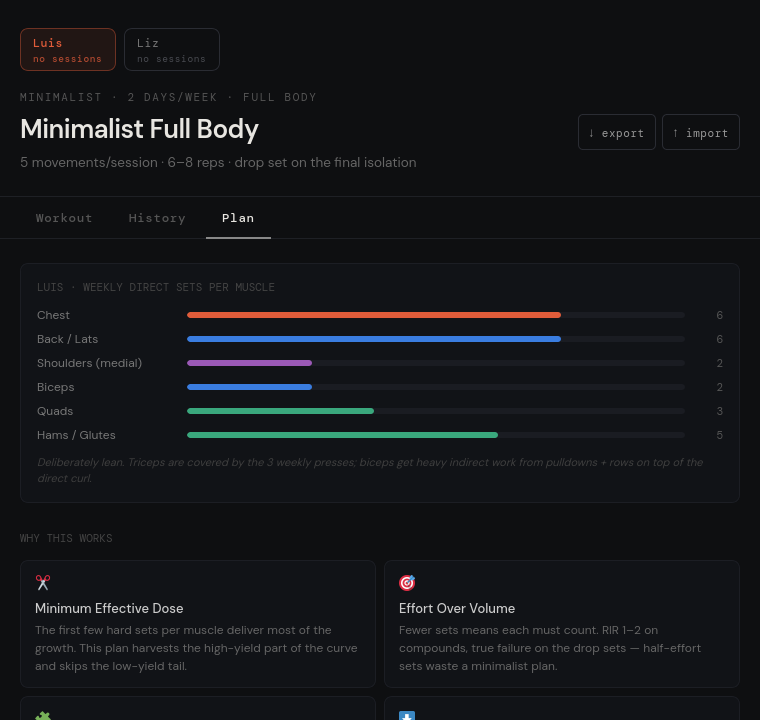
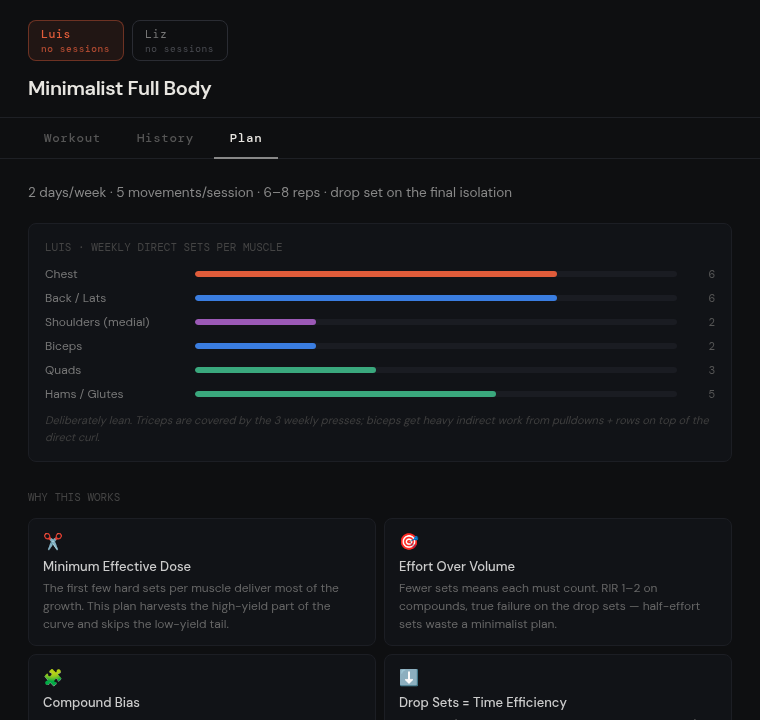
Tighten workout UI for use between sets
- Compact header (profiles + one-line title); tagline moves to Plan
- Export/import/clear sheet move to History → Backup & data, away from logging
- Day tabs read "Day A"/"Day B" on one line; no horizontal overflow at 360px
- Exercise is crossed out only when every working set has reps; partial shows 1/3
- S2+ weight shows the previous set's weight and fills it on tap
- Raise contrast of muted labels on the workout card; keep sets×reps on one line
- Refresh README screenshots and doc references

diff --git a/index.html b/index.html
@@ -335,6 +335,9 @@ function Routine() {
   function hasAnyLog(dayId, exIdx) {
     return Object.keys(logs).some((k) => k.startsWith(`${dayId}-${exIdx}-`) && (logs[k]?.weight || logs[k]?.reps));
   }
+  function setsDone(dayId, exIdx, ex) {
+    return Array.from({ length: ex.sets }, (_, s) => getLog(dayId, exIdx, s)).filter((l) => l.reps).length;
+  }
   function clearLogs() { localStorage.removeItem(logsKey(personId)); setLogs({}); }
   function clearDay(dayId) {
     setLogs((prev) => {
@@ -542,7 +545,7 @@ function Routine() {
   return (
     <div style={{ fontFamily: "'DM Sans', sans-serif", background: "#0e0f11", minHeight: "100vh", color: "#e8e6e1" }}>
       {/* Header */}
-      <div style={{ borderBottom: "1px solid #1e2025", padding: "calc(28px + env(safe-area-inset-top)) 28px 24px" }}>
+      <div style={{ borderBottom: "1px solid #1e2025", padding: "calc(20px + env(safe-area-inset-top)) 28px 16px" }}>
         <div style={{ maxWidth: 720, margin: "0 auto" }}>
           <div style={{ display: "flex", gap: 8, marginBottom: 14 }}>
             {people.map((p) => {
@@ -567,26 +570,7 @@ function Routine() {
               );
             })}
           </div>
-          <span style={{ fontFamily: "'DM Mono'", fontSize: 11, color: "#555", letterSpacing: "0.15em", textTransform: "uppercase" }}>
-            Minimalist · 2 days/week · Full body
-          </span>
-          <div style={{ display: "flex", alignItems: "flex-start", justifyContent: "space-between", marginTop: 6, gap: 12 }}>
-            <div>
-              <h1 style={{ margin: 0, fontSize: 26, fontWeight: 600, letterSpacing: "-0.02em" }}>Minimalist Full Body</h1>
-              <p style={{ margin: "6px 0 0", color: "#666", fontSize: 13.5, lineHeight: 1.5 }}>
-                5 movements/session · 6–8 reps · drop set on the final isolation
-              </p>
-            </div>
-            <div style={{ display: "flex", flexDirection: "column", gap: 6, alignItems: "flex-end", marginTop: 2 }}>
-              <div style={{ display: "flex", gap: 6 }}>
-                <button onClick={exportData} style={btn()}>↓ export</button>
-                <button onClick={() => setImportOpen(true)} style={btn()}>↑ import</button>
-              </div>
-              {hasData(logs) && (
-                <button onClick={() => { if (window.confirm(`Clear ${person.name}'s current sheet? Logged sets that haven't been saved to history will be lost.`)) clearLogs(); }} style={btn("#2a1a1a", "#6b3030")}>clear sheet</button>
-              )}
-            </div>
-          </div>
+          <h1 style={{ margin: 0, fontSize: 20, fontWeight: 600, letterSpacing: "-0.02em" }}>Minimalist Full Body</h1>
         </div>
       </div>
 
@@ -635,11 +619,12 @@ function Routine() {
           <div style={{ maxWidth: 720, margin: "0 auto", display: "flex", justifyContent: "space-between" }}>
             <div style={{ display: "flex" }}>
               {person.days.map((d) => {
-                const started = d.exercises.filter((_, i) => hasAnyLog(d.id, i)).length;
+                const started = d.exercises.some((_, i) => hasAnyLog(d.id, i));
+                const done = d.exercises.filter((ex, i) => setsDone(d.id, i, ex) === ex.sets).length;
                 return (
-              <button key={d.id} onClick={() => { setActiveDay(d.id); setExpanded(null); setCueOpen(null); }} style={{ background: "none", border: "none", borderBottom: activeDay === d.id ? `2px solid ${d.color}` : "2px solid transparent", color: activeDay === d.id ? "#e8e6e1" : "#555", cursor: "pointer", padding: "14px 20px 13px", fontSize: 13.5, fontFamily: "'DM Sans'", fontWeight: activeDay === d.id ? 600 : 400, marginBottom: -1 }}>
-                    <span style={{ color: activeDay === d.id ? d.color : "#555", fontFamily: "'DM Mono'", fontSize: 11, marginRight: 6 }}>{d.id}</span>{d.focus}
-                    {started > 0 && <span style={{ fontFamily: "'DM Mono'", fontSize: 10.5, color: started === d.exercises.length ? "#3aa87d" : d.color, marginLeft: 6 }}>{started}/{d.exercises.length}</span>}
+              <button key={d.id} onClick={() => { setActiveDay(d.id); setExpanded(null); setCueOpen(null); }} style={{ background: "none", border: "none", borderBottom: activeDay === d.id ? `2px solid ${d.color}` : "2px solid transparent", color: activeDay === d.id ? "#e8e6e1" : "#777", cursor: "pointer", padding: "14px 14px 13px", fontSize: 13.5, fontFamily: "'DM Sans'", fontWeight: activeDay === d.id ? 600 : 400, marginBottom: -1, whiteSpace: "nowrap" }}>
+                    Day <span style={{ color: activeDay === d.id ? d.color : "#777" }}>{d.id}</span>
+                    {started && <span style={{ fontFamily: "'DM Mono'", fontSize: 10.5, color: done === d.exercises.length ? "#3aa87d" : d.color, marginLeft: 6 }}>{done}/{d.exercises.length}</span>}
                   </button>
                 );
               })}
@@ -658,11 +643,12 @@ function Routine() {
           <div style={{ display: "flex", flexDirection: "column", gap: 8 }}>
             {day.exercises.map((ex, i) => {
               const isOpen = expanded === i;
-              const logged = hasAnyLog(day.id, i);
+              const doneSets = setsDone(day.id, i, ex);
+              const logged = doneSets === ex.sets;
               const ins = insights[i] || { last: null, next: null };
               return (
                 <div key={i} style={{ background: isOpen ? "#14161a" : logged ? "#0f1310" : "#111317", border: `1px solid ${isOpen ? day.color + "55" : logged ? "#2c4436" : "#1c1e24"}`, borderRadius: 8, overflow: "hidden" }}>
-                  <div onClick={() => setExpanded(isOpen ? null : i)} style={{ display: "flex", alignItems: "center", justifyContent: "space-between", padding: "14px 16px", cursor: "pointer" }}>
+                  <div onClick={() => setExpanded(isOpen ? null : i)} style={{ display: "flex", alignItems: "center", justifyContent: "space-between", gap: 10, padding: "14px 16px", cursor: "pointer" }}>
                     <div style={{ display: "flex", alignItems: "center", gap: 12 }}>
                       <span style={{ fontFamily: "'DM Mono'", fontSize: 11, color: logged ? "#3aa87d" : day.color, minWidth: 20 }}>{String(i + 1).padStart(2, "0")}</span>
                       <div>
@@ -670,8 +656,9 @@ function Routine() {
                           <span style={{ fontSize: 14, fontWeight: logged ? 400 : 500, color: logged ? "#7d9c8b" : "#ddd", textDecoration: logged ? "line-through" : "none", textDecorationColor: "#3aa87d66" }}>{ex.name}</span>
                           {ex.dropSet && <span style={{ fontSize: 10, fontFamily: "'DM Mono'", color: "#0e0f11", background: day.color, padding: "1px 6px", borderRadius: 3, fontWeight: 600 }}>⬇ drop set</span>}
                           {logged && <span title="sets logged" style={{ fontSize: 10.5, fontFamily: "'DM Mono'", color: "#3aa87d", background: "#3aa87d14", border: "1px solid #3aa87d33", padding: "1px 7px", borderRadius: 999, fontWeight: 600 }}>✓ logged</span>}
+                          {!logged && doneSets > 0 && <span title="working sets logged" style={{ fontSize: 10.5, fontFamily: "'DM Mono'", color: day.color, background: day.color + "14", border: `1px solid ${day.color}33`, padding: "1px 7px", borderRadius: 999, fontWeight: 600 }}>{doneSets}/{ex.sets}</span>}
                         </div>
-                        <div style={{ fontSize: 12, color: "#555", marginTop: 2 }}>{ex.target}</div>
+                        <div style={{ fontSize: 12, color: "#888", marginTop: 2 }}>{ex.target}</div>
                         {ins.last && (
                           <div style={{ fontSize: 11, fontFamily: "'DM Mono'", marginTop: 3, color: "#666" }}>
                             last <span style={{ color: "#999" }}>{ins.last.weight || "—"}×{ins.last.reps}</span>
@@ -682,8 +669,8 @@ function Routine() {
                     </div>
                     <div style={{ display: "flex", gap: 8, alignItems: "center" }}>
                       <div style={{ textAlign: "right" }}>
-                        <div style={{ fontSize: 12, color: "#888", fontFamily: "'DM Mono'" }}>{ex.sets}×{ex.reps}</div>
-                        <div style={{ fontSize: 11, color: "#444", marginTop: 1 }}>RIR {ex.rir}</div>
+                        <div style={{ fontSize: 12, color: "#888", fontFamily: "'DM Mono'", whiteSpace: "nowrap" }}>{ex.sets}×{ex.reps}</div>
+                        <div style={{ fontSize: 11, color: "#777", marginTop: 1 }}>RIR {ex.rir}</div>
                       </div>
                       <span style={{ color: "#333", fontSize: 14, marginLeft: 4 }}>{isOpen ? "−" : "+"}</span>
                     </div>
@@ -694,7 +681,7 @@ function Routine() {
                       <div style={{ display: "grid", gridTemplateColumns: "1fr 1fr", gap: 12, marginBottom: 20 }}>
                         <div>
                           <div onClick={() => setCueOpen(cueOpen === i ? null : i)} style={{ display: "flex", justifyContent: "space-between", alignItems: "center", cursor: "pointer", marginBottom: 4 }}>
-                            <span style={{ fontSize: 11, color: "#444", fontFamily: "'DM Mono'", textTransform: "uppercase" }}>Coaching cue</span>
+                            <span style={{ fontSize: 11, color: "#777", fontFamily: "'DM Mono'", textTransform: "uppercase" }}>Coaching cue</span>
                             <span style={{ color: "#333", fontSize: 12 }}>{cueOpen === i ? "−" : "+"}</span>
                           </div>
                           {cueOpen === i && <div style={{ fontSize: 13, color: "#aaa", lineHeight: 1.5, marginBottom: 10 }}>{ex.note}</div>}
@@ -706,7 +693,7 @@ function Routine() {
                         <div style={{ display: "flex", flexDirection: "column", gap: 10 }}>
                           {[{ label: "Sets", val: ex.dropSet ? `${ex.sets} (+drop)` : ex.sets }, { label: "Reps", val: ex.reps }, { label: "RIR", val: ex.rir }, { label: "Rest", val: ex.rest }].map(({ label, val }) => (
                             <div key={label} style={{ display: "flex", justifyContent: "space-between", borderBottom: "1px solid #1a1c21", paddingBottom: 6 }}>
-                              <span style={{ fontSize: 11, color: "#444", textTransform: "uppercase", fontFamily: "'DM Mono'" }}>{label}</span>
+                              <span style={{ fontSize: 11, color: "#777", textTransform: "uppercase", fontFamily: "'DM Mono'" }}>{label}</span>
                               <span style={{ fontSize: 12, color: "#bbb", fontFamily: "'DM Mono'" }}>{val}</span>
                             </div>
                           ))}
@@ -715,7 +702,7 @@ function Routine() {
 
                       {ex.warmupNote && (
                         <div style={{ background: "#0e0f11", border: "1px solid #1e2025", borderRadius: 6, padding: "10px 12px", marginBottom: 16 }}>
-                          <div style={{ fontSize: 11, fontFamily: "'DM Mono'", color: "#444", textTransform: "uppercase", letterSpacing: "0.08em", marginBottom: 6 }}>warm-up</div>
+                          <div style={{ fontSize: 11, fontFamily: "'DM Mono'", color: "#777", textTransform: "uppercase", letterSpacing: "0.08em", marginBottom: 6 }}>warm-up</div>
                           {(ex.warmup || []).map((w, wi) => {
                             const top = Number(getLog(day.id, i, 0).weight);
                             const load = top > 0 ? Math.round((top * w.pct) / 100 / 5) * 5 : 0;
@@ -767,20 +754,21 @@ function Routine() {
                       )}
 
                       <div style={{ borderTop: "1px solid #1a1c21", paddingTop: 14 }}>
-                        <div style={{ fontSize: 11, color: "#444", fontFamily: "'DM Mono'", textTransform: "uppercase", marginBottom: 10 }}>Log weight &amp; reps</div>
+                        <div style={{ fontSize: 11, color: "#777", fontFamily: "'DM Mono'", textTransform: "uppercase", marginBottom: 10 }}>Log weight &amp; reps</div>
                         <div style={{ display: "grid", gridTemplateColumns: "52px 1fr 1fr", gap: "6px 10px", alignItems: "center" }}>
                           <div />
-                          <div style={{ fontSize: 10, color: "#444", fontFamily: "'DM Mono'", textTransform: "uppercase", textAlign: "center" }}>lbs</div>
-                          <div style={{ fontSize: 10, color: "#444", fontFamily: "'DM Mono'", textTransform: "uppercase", textAlign: "center" }}>reps done</div>
+                          <div style={{ fontSize: 10, color: "#777", fontFamily: "'DM Mono'", textTransform: "uppercase", textAlign: "center" }}>lbs</div>
+                          <div style={{ fontSize: 10, color: "#777", fontFamily: "'DM Mono'", textTransform: "uppercase", textAlign: "center" }}>reps done</div>
 
                           {Array.from({ length: ex.sets }).map((_, s) => {
                             const isDropTop = ex.dropSet && s === ex.sets - 1;
                             const log = getLog(day.id, i, s);
                             const filled = log.weight || log.reps;
+                            const prevWeight = s > 0 ? getLog(day.id, i, s - 1).weight : "";
                             return (
                               <React.Fragment key={`set-${s}`}>
-                                <div style={{ fontFamily: "'DM Mono'", fontSize: 11, color: filled ? day.color : "#555" }}>{isDropTop ? "S" + (s + 1) + " ⬇" : "S" + (s + 1)}</div>
-                                <input type="text" inputMode="decimal" placeholder="—" value={log.weight} onClick={(e) => e.stopPropagation()} onChange={(e) => updateLog(day.id, i, s, "weight", e.target.value)} style={inputStyle(filled, day.color)} />
+                                <div style={{ fontFamily: "'DM Mono'", fontSize: 11, color: filled ? day.color : "#777" }}>{isDropTop ? "S" + (s + 1) + " ⬇" : "S" + (s + 1)}</div>
+                                <input type="text" inputMode="decimal" placeholder={prevWeight || "—"} value={log.weight} onClick={(e) => e.stopPropagation()} onFocus={() => { if (!log.weight && prevWeight) updateLog(day.id, i, s, "weight", prevWeight); }} onChange={(e) => updateLog(day.id, i, s, "weight", e.target.value)} style={inputStyle(filled, day.color)} />
                                 <input type="text" inputMode="numeric" placeholder="—" value={log.reps} onClick={(e) => e.stopPropagation()} onChange={(e) => updateLog(day.id, i, s, "reps", e.target.value)} style={inputStyle(filled, day.color)} />
                               </React.Fragment>
                             );
@@ -791,7 +779,7 @@ function Routine() {
                             const filled = log.weight || log.reps;
                             return (
                               <React.Fragment key={`drop-${dk}`}>
-                                <div style={{ fontFamily: "'DM Mono'", fontSize: 11, color: filled ? day.color : "#555", paddingLeft: 12 }}>↳ d{di + 1}</div>
+                                <div style={{ fontFamily: "'DM Mono'", fontSize: 11, color: filled ? day.color : "#777", paddingLeft: 12 }}>↳ d{di + 1}</div>
                                 <input type="text" inputMode="decimal" placeholder="—" value={log.weight} onClick={(e) => e.stopPropagation()} onChange={(e) => updateLog(day.id, i, dk, "weight", e.target.value)} style={inputStyle(filled, day.color)} />
                                 <input type="text" inputMode="numeric" placeholder="—" value={log.reps} onClick={(e) => e.stopPropagation()} onChange={(e) => updateLog(day.id, i, dk, "reps", e.target.value)} style={inputStyle(filled, day.color)} />
                               </React.Fragment>
@@ -815,6 +803,7 @@ function Routine() {
       {/* PLAN VIEW — reference content, out of the way of logging */}
       {view === "plan" && (
         <div style={{ maxWidth: 720, margin: "0 auto", padding: "24px 28px 40px" }}>
+          <p style={{ margin: "0 0 20px", color: "#888", fontSize: 13.5, lineHeight: 1.5 }}>2 days/week · 5 movements/session · 6–8 reps · drop set on the final isolation</p>
           <div style={{ background: "#111317", border: "1px solid #1c1e24", borderRadius: 8, padding: "16px" }}>
             <div style={{ fontSize: 11, color: "#444", fontFamily: "'DM Mono'", textTransform: "uppercase", marginBottom: 12 }}>{person.name} · weekly direct sets per muscle</div>
             {person.weeklySets.map(({ muscle, sets, color }) => (
@@ -847,7 +836,7 @@ function Routine() {
         <div style={{ position: "fixed", bottom: 0, left: 0, right: 0, background: "rgba(14,15,17,0.96)", borderTop: `1px solid ${day.color}44`, padding: "10px 28px calc(10px + env(safe-area-inset-bottom))", zIndex: 150 }}>
           <div style={{ maxWidth: 720, margin: "0 auto", display: "flex", alignItems: "center", justifyContent: "space-between", gap: 12 }}>
             <span style={{ fontFamily: "'DM Mono'", fontSize: 11, color: "#888", whiteSpace: "nowrap" }}>
-              {day.id} · {person.name} · {day.exercises.filter((_, i) => hasAnyLog(day.id, i)).length}/{day.exercises.length} ex
+              {day.id} · {person.name} · {day.exercises.filter((ex, i) => setsDone(day.id, i, ex) === ex.sets).length}/{day.exercises.length} ex
             </span>
             <button onClick={finishSession} style={{ background: day.color + "16", border: `1px solid ${day.color}66`, color: day.color, fontFamily: "'DM Mono'", fontSize: 12.5, fontWeight: 500, cursor: "pointer", padding: "10px 18px", borderRadius: 7, letterSpacing: "0.05em", whiteSpace: "nowrap" }}>
               ✓ Finish &amp; save
@@ -875,7 +864,6 @@ function Routine() {
                   {[{ id: "me", label: person.name }, { id: "both", label: "Both" }].map((f) => (
                     <button key={f.id} onClick={() => { setHistoryFilter(f.id); setExpandedSession(null); }} style={{ background: historyFilter === f.id ? "#1a1c22" : "none", border: `1px solid ${historyFilter === f.id ? "#33363e" : "#22242b"}`, color: historyFilter === f.id ? "#ccc" : "#555", fontFamily: "'DM Mono'", fontSize: 10.5, cursor: "pointer", padding: "4px 10px", borderRadius: 999, letterSpacing: "0.05em" }}>{f.label}</button>
                   ))}
-                  <button onClick={exportData} style={btn()}>↓ export</button>
                 </div>
               </div>
               <div style={{ display: "flex", flexDirection: "column", gap: 8 }}>
@@ -922,6 +910,19 @@ function Routine() {
                 })}
               </div>
             </>)}
+
+            {/* Backup & data — away from the logging screen so nothing destructive is a mis-tap away */}
+            <div style={{ marginTop: 32, borderTop: "1px solid #1c1e24", paddingTop: 16 }}>
+              <div style={{ fontSize: 11, color: "#777", fontFamily: "'DM Mono'", textTransform: "uppercase", letterSpacing: "0.1em", marginBottom: 10 }}>Backup &amp; data</div>
+              <div style={{ display: "flex", gap: 6, flexWrap: "wrap" }}>
+                <button onClick={exportData} style={btn()}>↓ export</button>
+                <button onClick={() => setImportOpen(true)} style={btn()}>↑ import</button>
+                {hasData(logs) && (
+                  <button onClick={() => { if (window.confirm(`Clear ${person.name}'s current sheet? Logged sets that haven't been saved to history will be lost.`)) clearLogs(); }} style={{ marginLeft: "auto", ...btn("#2a1a1a", "#6b3030") }}>clear sheet</button>
+                )}
+              </div>
+              <div style={{ fontSize: 11.5, color: "#666", marginTop: 8, lineHeight: 1.5 }}>Export saves every profile to a file — it's the only backup. Import merges without duplicates.</div>
+            </div>
           </div>
         );
       })()}

diff --git a/README.md b/README.md
@@ -23,8 +23,8 @@ no server, no tracking. All data lives in your browser's `localStorage`.
 - **Multiple profiles** (the app ships with two configured plans).
 - **"Why this works" cards** — the programming rationale is documented in-app,
   including per-muscle weekly volume targets.
-- **JSON export/import** — one file is your backup; re-importing merges by session ID,
-  so it's idempotent and never duplicates history.
+- **JSON export/import** (under History → Backup & data) — one file is your backup;
+  re-importing merges by session ID, so it's idempotent and never duplicates history.
 - **Offline-first PWA** — a service worker caches the whole app after the first load,
   so it opens at the gym with no signal.
 
@@ -34,7 +34,7 @@ Deliberately minimal: **one HTML file**, no build step, no bundler, no dependenc
 
 | File | Role |
 |---|---|
-| `index.html` | The entire app — data, React component, styles, bootstrap (~900 lines) |
+| `index.html` | The entire app — data, React component, styles, bootstrap (~950 lines) |
 | `sw.js` | Service worker; cache-first offline shell with a content-hashed cache name |
 | `manifest.webmanifest` | PWA manifest (installable / add to home screen) |
 | `icon-192.png`, `icon-512.png` | App icons |

diff --git a/AGENTS.md b/AGENTS.md
@@ -16,7 +16,7 @@ offline.
 
 | File | Role |
 |---|---|
-| `index.html` | **The entire app.** Data, component, styles, bootstrap — all of it (~860 lines) |
+| `index.html` | **The entire app.** Data, component, styles, bootstrap — all of it (~950 lines) |
 | `sw.js` | Service worker. Cache-first offline shell |
 | `manifest.webmanifest` | PWA manifest (install / home-screen) |
 | `icon-192.png`, `icon-512.png` | App icons |
@@ -144,8 +144,8 @@ python3 -m http.server 8080
 ```
 
 Then manually: expand an exercise, type in a weight, reload the page (values persist),
-Finish & save (session appears in History), export (file downloads), import it back
-(no duplicates).
+Finish & save (session appears in History), then from History → Backup & data: export
+(file downloads), import it back (no duplicates).
 
 Because JSX compiles in-browser, **a syntax error produces a blank page, not a build
 error.** Always load the page once after editing.
